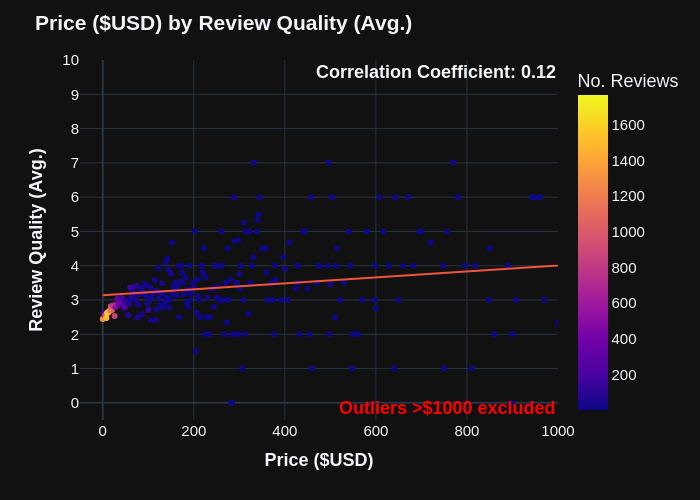
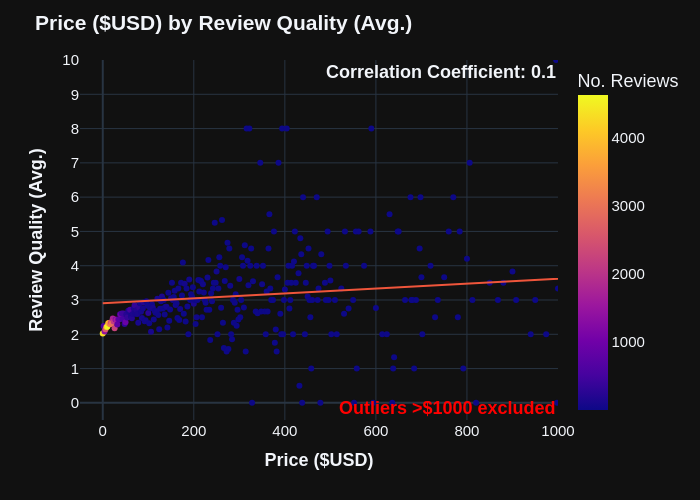
redid plots with larger dataset

diff --git a/src/main.py b/src/main.py
@@ -29,10 +29,10 @@ load_dotenv()
 genai.configure(api_key=os.environ["GEMINI_API_KEY"])
 
 
-def decompress(file_path_no_ext: str, buffer_size: int) -> None:
+def decompress(file_path_no_ext: str) -> None:
     with gzip.open(f"{file_path_no_ext}.jsonl.gz", "rb") as f_in:
         with open(f"{file_path_no_ext}.jsonl", "wb") as f_out:
-            shutil.copyfileobj(fsrc=f_in, fdst=f_out, length=buffer_size)
+            shutil.copyfileobj(fsrc=f_in, fdst=f_out)
 
 
 def read_data(
@@ -197,21 +197,27 @@ for iteration in range(3):
             "All_Beauty.jsonl.gz",
             "Amazon_Fashion.jsonl.gz",
             "Appliances.jsonl.gz",
-            #     "Arts_Crafts_and_Sewing.jsonl.gz",
-            #     "Automotive.jsonl.gz",
-            #     "Baby_Products.jsonl.gz",
-            #     "Beauty_and_Personal_Care.jsonl.gz",
-            #     "Books.jsonl.gz",
-            #     "CDs_and_Vinyl.jsonl.gz",
-            #     "Cell_Phones_and_Accessories.jsonl.gz",
-            #     "Clothing_Shoes_and_Jewelry.jsonl.gz",
-            #     "Digital_Music.jsonl.gz",
-            #     "Electronics.jsonl.gz",
-            #     "Gift_Cards.jsonl.gz",
-            #     "Grocery_and_Gourmet_Food.jsonl.gz",
-            #     "Handmade_Products.jsonl.gz",
-            #     "Health_and_Household.jsonl.gz",
-            #     "Health_and_Personal_Care.jsonl.gz",
+            "Arts_Crafts_and_Sewing.jsonl.gz",
+            "Automotive.jsonl.gz",
+            "Baby_Products.jsonl.gz",
+            "Beauty_and_Personal_Care.jsonl.gz",
+            "Books.jsonl.gz",
+            "CDs_and_Vinyl.jsonl.gz",
+            "Cell_Phones_and_Accessories.jsonl.gz",
+            "Clothing_Shoes_and_Jewelry.jsonl.gz",
+            "Digital_Music.jsonl.gz",
+            "Electronics.jsonl.gz",
+            "Gift_Cards.jsonl.gz",
+            "Grocery_and_Gourmet_Food.jsonl.gz",
+            "Handmade_Products.jsonl.gz",
+            "Health_and_Household.jsonl.gz",
+            "Health_and_Personal_Care.jsonl.gz",
+            "Home_and_Kitchen.jsonl.gz",
+            "Industrial_and_Scientific.jsonl.gz",
+            "Kindle_Store.jsonl.gz",
+            "Magazine_Subscriptions.jsonl.gz",
+            "Movies_and_TV.jsonl.gz",
+            "Musical_Instruments.jsonl.gz",
         ]:
             logger.info(
                 f"Skipping {review_file}, {product_file} on iteration {iteration}."
@@ -224,8 +230,8 @@ for iteration in range(3):
         product_name = product_file.split(".")[0]
         product_path = f"./product_data/{product_name}"
 
-        decompress(file_path_no_ext=review_path, buffer_size=1 * 1_000_000)
-        decompress(file_path_no_ext=product_path, buffer_size=1 * 1_000_000)
+        decompress(file_path_no_ext=review_path)
+        decompress(file_path_no_ext=product_path)
 
         rows = 30
         slice_total = 15
@@ -270,6 +276,10 @@ for iteration in range(3):
                     )
                 except TypeError:
                     logger.info("Failed to parse response schema. Skipping...")
+                    continue
+                except pl.exceptions.ComputeError:
+                    logger.info("Failed to parse response schema. Skipping...")
+                    continue
 
         response_df = pl.concat(items=response_dfs)
         final_df = df.join(

diff --git a/src/analyse.py b/src/analyse.py
@@ -356,7 +356,7 @@ fig = px.line(
         "rating": "<b>Rating</b>",
     },
 )
-fig.update_xaxes(dtick=1, range=[-0.5, 10])
+fig.update_xaxes(dtick=1, range=[-0.5, 10.5])
 fig.update_yaxes(tickformat=".2%", range=[-0.03, 0.35])
 fig.update_layout(
     title="<b>Distribution of Review Quality by Star Rating</b>",
@@ -366,7 +366,6 @@ fig.update_layout(
     legend=dict(title="<b>Star Rating</b>"),
 )
 fig.show()
-
 fig.write_image("../media/pct_eval_by_rating.png")
 
 pct_eval = duckdb.sql(open_sql("pct-eval")).pl()
@@ -380,8 +379,8 @@ fig = px.line(
         "percentage": "<b>Percentage</b>",
     },
 )
-fig.update_xaxes(dtick=1, range=[-0.5, 10])
-fig.update_yaxes(tickformat=".2%", range=[-0.03, 0.30])
+fig.update_xaxes(dtick=1, range=[-0.5, 10.5])
+fig.update_yaxes(tickformat=".2%", range=[-0.03, 0.25])
 fig.update_layout(
     title="<b>Distribution of Review Quality</b>",
     xaxis_title="<b>Quality</b>",
@@ -470,7 +469,7 @@ fig.write_image("../media/avg_eval_by_category.png")
 
 duckdb.sql(f"""
 SELECT
-    AVG(LEN(review_text)) AS average_price,
+    AVG(price) AS average_price,
     RANK() OVER(ORDER BY average_price DESC),
     main_category
 FROM
@@ -482,7 +481,3 @@ GROUP BY
 ORDER BY
     average_price DESC;
 """).pl()
-
-
-# TODO: Re-interpret helpful votes (non-significant with length included)
-# TODO: Maybe set up Github Pages to embed plots as SVGs?
